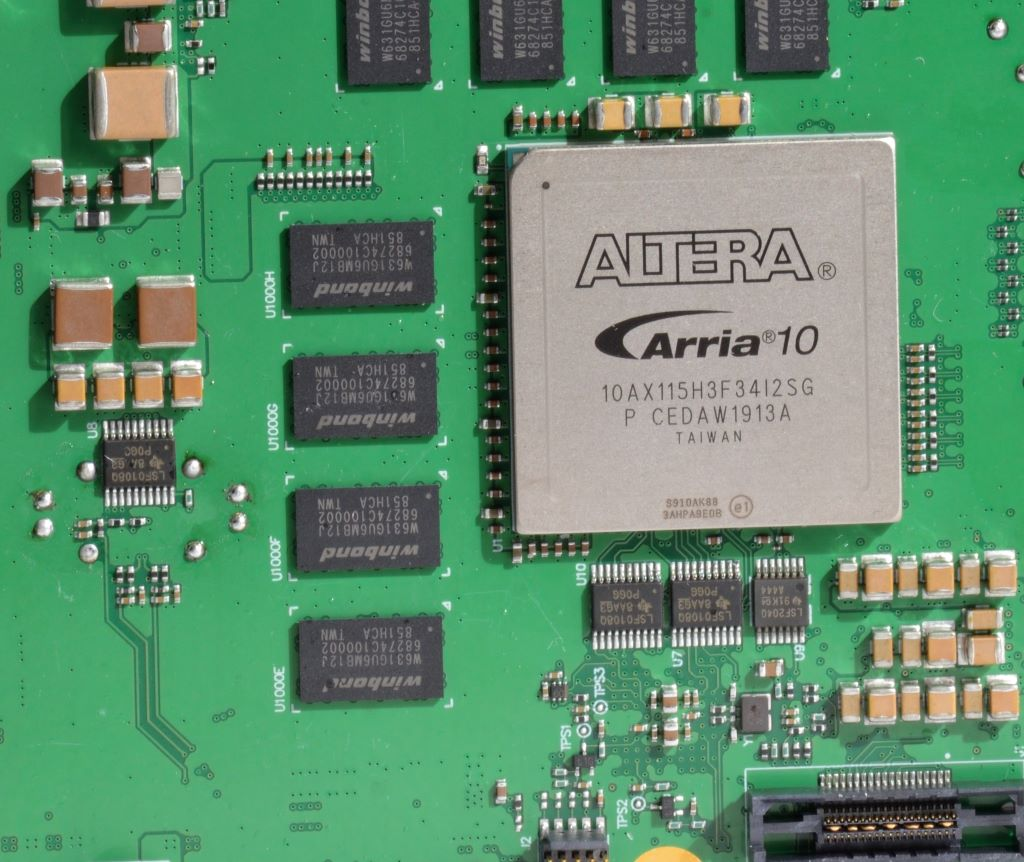
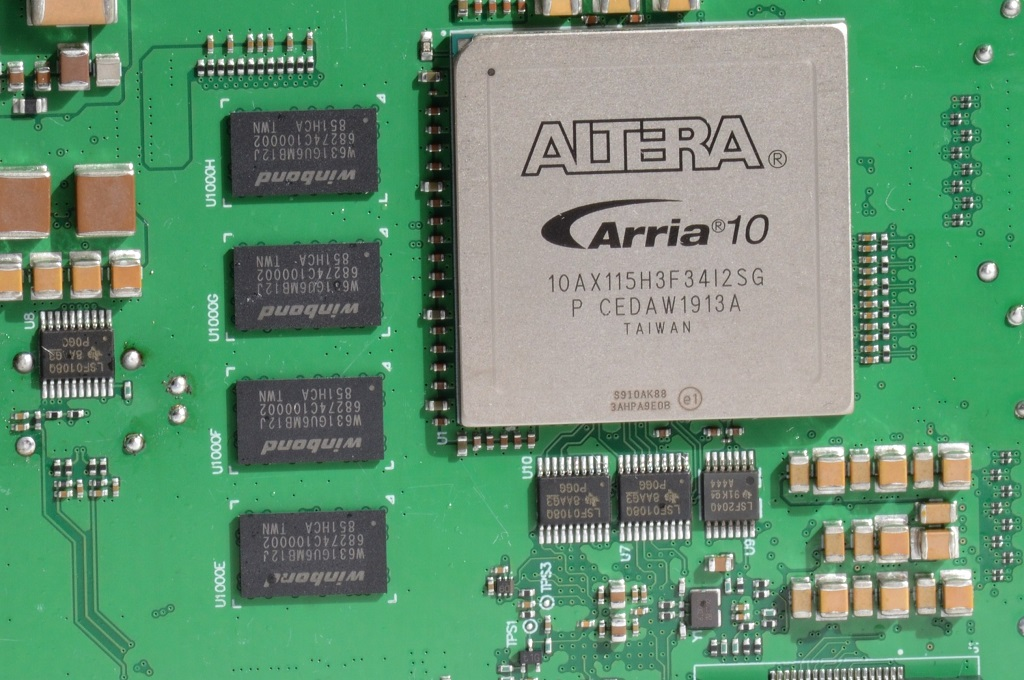
replaced images with same sizes and directions

diff --git a/index.html b/index.html
@@ -188,7 +188,7 @@
 					
 					<div class="w3-content" style="max-width:800px">
  						<img class="mySlides" src="images/img_bg_1.jpg" style="width:60%;">
-  						<img class="mySlides rotateimg90" src="images/img_bg_2.jpg" style="width:50%">
+  						<img class="mySlides" src="images/img_bg_2.jpg" style="width:60%">
   						<img class="mySlides" src="images/img_bg_3.jpg" style="width:60%">
 					</div>
 

diff --git a/css/style.css b/css/style.css
@@ -779,11 +779,3 @@ img {
   margin-right: auto;
   width: 40%;
 }
-
-.rotateimg90 {
-  -webkit-transform:rotate(90deg);
-  -moz-transform: rotate(90deg);
-  -ms-transform: rotate(90deg);
-  -o-transform: rotate(90deg);
-  transform: rotate(90deg);
-}
